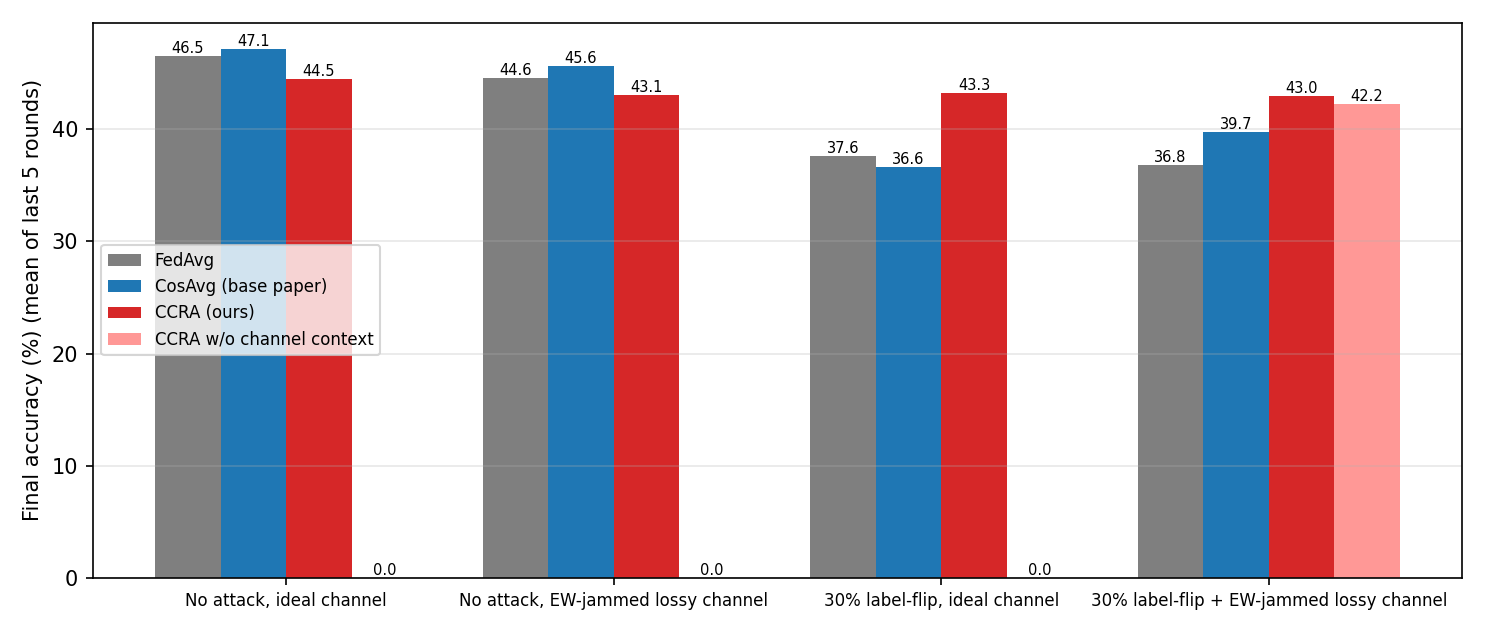
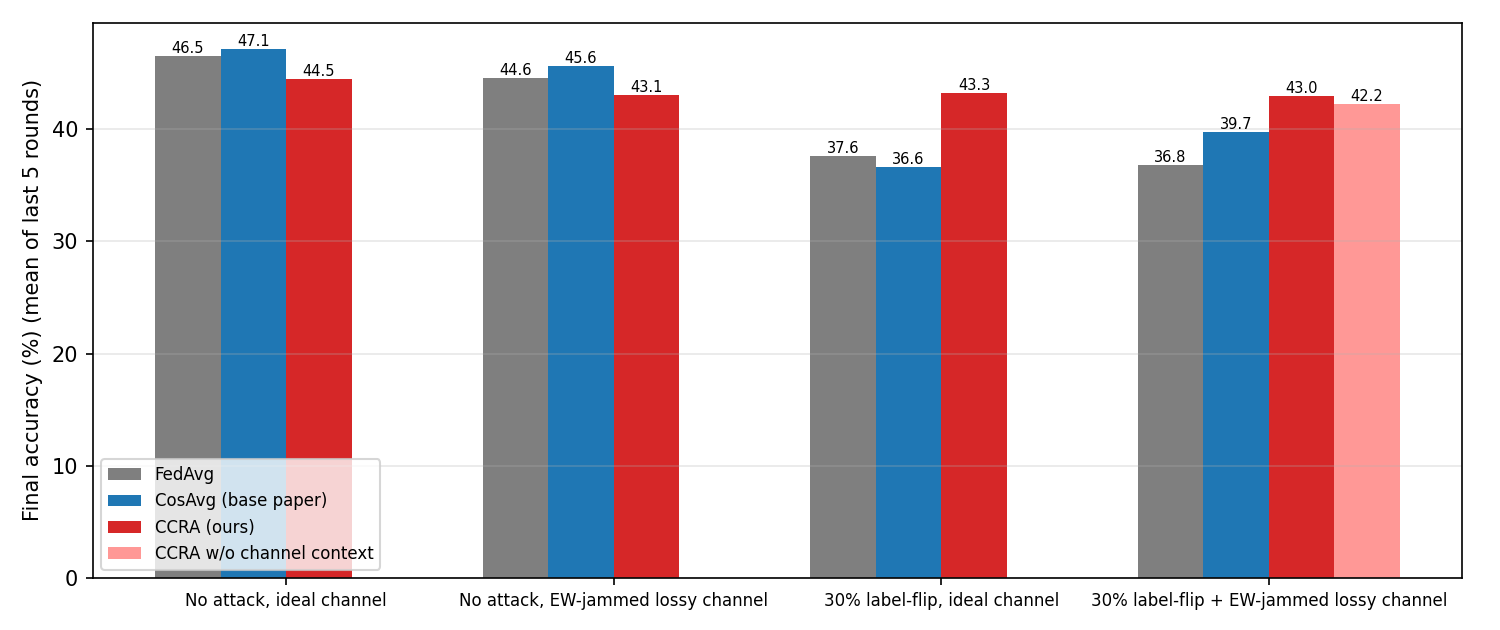
plot_compare: don't draw 0-height bars for runs that weren't made

Changed region(s): [[0.0613, 0.3619, 0.2453, 0.573], [0.0613, 0.7238, 0.276, 0.9048]]

diff --git a/plot_compare.py b/plot_compare.py
@@ -68,8 +68,9 @@ def main():
     fig, ax = plt.subplots(figsize=(10, 4.2))
     width = 0.8 / len(aggs)
     for i, agg in enumerate(aggs):
-        vals = [final_acc(runs[(s, agg)]) if (s, agg) in runs else 0 for s in scens]
-        bars = ax.bar(np.arange(len(scens)) + i * width, vals, width, label=AGG_LABELS[agg], color=COLORS[agg])
+        idx = [j for j, s in enumerate(scens) if (s, agg) in runs]  # skip scenarios not run for this method
+        vals = [final_acc(runs[(scens[j], agg)]) for j in idx]
+        bars = ax.bar(np.arange(len(scens))[idx] + i * width, vals, width, label=AGG_LABELS[agg], color=COLORS[agg])
         ax.bar_label(bars, fmt="%.1f", fontsize=7)
     ax.set_xticks(np.arange(len(scens)) + width * (len(aggs) - 1) / 2)
     ax.set_xticklabels([SCEN_TITLES[s] for s in scens], fontsize=8)
@@ -105,7 +106,7 @@ def main():
     lines = ["| Scenario | " + " | ".join(AGG_LABELS[a] for a in aggs) + " |",
              "|---|" + "---|" * len(aggs)]
     for sc in scens:
-        cells = [f"{final_acc(runs[(sc, a)]):.2f}" if (sc, a) in runs else "–" for a in aggs]
+        cells = [f"{final_acc(runs[(sc, a)]):.2f}" if (sc, a) in runs else "-" for a in aggs]
         lines.append(f"| {SCEN_TITLES[sc]} | " + " | ".join(cells) + " |")
     mal = ["", "Average weight given to malicious drones (last 10 rounds):", ""]
     for sc in ("attack_ideal", "attack_lossy"):

diff --git a/results/compare/RESULTS.md b/results/compare/RESULTS.md
@@ -4,9 +4,9 @@ Final accuracy (%), mean of last 5 rounds:
 
 | Scenario | FedAvg | CosAvg (base paper) | CCRA (ours) | CCRA w/o channel context |
 |---|---|---|---|---|
-| No attack, ideal channel | 46.51 | 47.15 | 44.49 | – |
-| No attack, EW-jammed lossy channel | 44.58 | 45.60 | 43.06 | – |
-| 30% label-flip, ideal channel | 37.63 | 36.58 | 43.26 | – |
+| No attack, ideal channel | 46.51 | 47.15 | 44.49 | - |
+| No attack, EW-jammed lossy channel | 44.58 | 45.60 | 43.06 | - |
+| 30% label-flip, ideal channel | 37.63 | 36.58 | 43.26 | - |
 | 30% label-flip + EW-jammed lossy channel | 36.78 | 39.70 | 42.98 | 42.20 |
 
 Average weight given to malicious drones (last 10 rounds):
